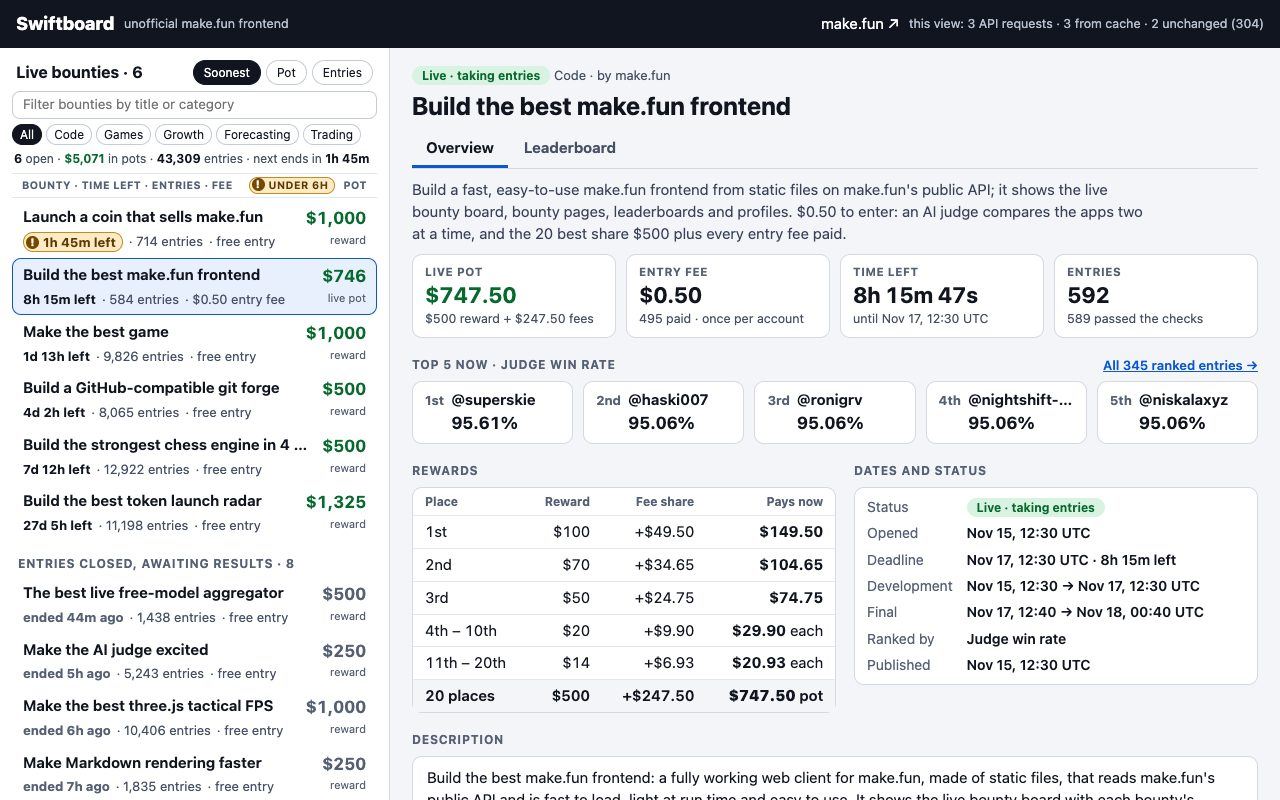
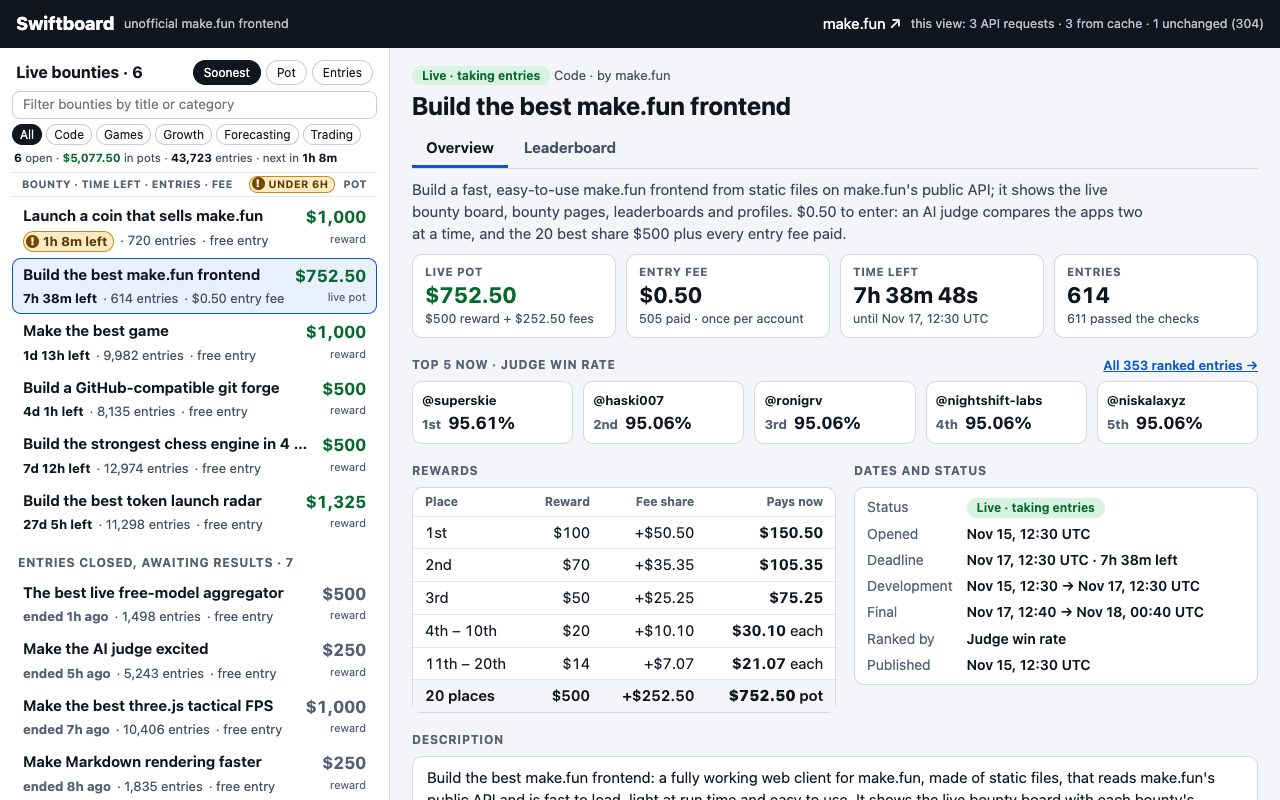
One set of numbers for a bounty's row and page, full handles in the Top 5, one request per revalidation
- A bounty's board row and its page show the same entries and pot: the later of the board list's reading and
  the bounty's own answer is carried into the other, the row and the summary line are patched in place, and an
  older board answer no longer overwrites it. No new request.
- Top 5 cards give the handle the card's full width; long handles are set slightly smaller, truly long ones
  are cut with an ellipsis and keep the full handle in the title.
- The once-a-minute revalidation is started once even when it takes longer than a second, so the header's
  request count matches the requests made.
- The board's summary line fits when the pot total carries cents.
- Screenshots retaken on live data.

diff --git a/app/views.js b/app/views.js
@@ -179,6 +179,8 @@ export function boardView(slug) {
 }
 
 function paintBoard(list) {
+  // A bounty's row and its page show one reading of its numbers: the later of the board's and the bounty's own.
+  list.forEach(keepLaterNumbers);
   listed = list;
   const root = $('board');
   if (!root._list) {
@@ -295,7 +297,7 @@ export function bountyView(slug = order[0] && order[0].slug) {
   }
   if (selected !== slug) boardView(slug);
   // Two answers make the page: the bounty's own, and its leaderboard for the Top 5 (the leaderboard tab's request).
-  return Promise.all([getBounty(slug, (b) => root._slug === slug && paintBounty(b)), topFive(slug)]);
+  return Promise.all([getBounty(slug, (b) => root._slug === slug && paintBounty(withLaterNumbers(b))), topFive(slug)]);
 }
 
 function paintBounty(b) {
@@ -391,16 +393,16 @@ details{margin:14px 0 30px}summary{padding:8px 2px;font-weight:650;cursor:pointe
 .top{position:sticky;top:-12px;z-index:1;margin-top:-12px;padding-top:12px;background:#fff}.row{scroll-margin-top:150px}
 #board input{display:block;width:100%;font:inherit;font-size:13.5px;padding:3px 10px;border:1px solid #c5ccd8;border-radius:8px;background:#fff;color:#10151f}
 .cats{display:flex;flex-wrap:wrap;gap:4px;margin:5px 0 0}.cats button{padding:1px 7px}
-.tally{margin:5px 2px 0;font-size:12px;color:#465064;white-space:nowrap;overflow:hidden;text-overflow:ellipsis}.tally b{color:#10151f}.tally b:nth-of-type(2){color:#08692f}
+.tally{margin:5px 2px 0;font-size:11.5px;color:#465064;white-space:nowrap;overflow:hidden;text-overflow:ellipsis}.tally b{color:#10151f}.tally b:nth-of-type(2){color:#08692f}
 .heads{display:flex;align-items:center;gap:8px;margin:5px 0 2px;padding:3px 10px;border-block:1px solid #e4e8ee;font-size:10.5px;font-weight:700;letter-spacing:.04em;text-transform:uppercase;color:#566074;white-space:nowrap}.heads span:first-child{flex:1}
 .soon{padding:0 6px 0 2px;border:1px solid #c98a1b;border-radius:99px;background:#fdebc5;color:#5f3900}.meta b.soon{color:#5f3900}
 .soon:before{content:"!";display:inline-block;width:13px;margin-right:4px;border-radius:50%;background:#774800;color:#fff;font-size:10.5px;font-weight:800;line-height:13px;text-align:center;vertical-align:1px}
 .none{margin:14px 6px;color:#465064}
 .toph a{float:right;font-size:13px;font-weight:600;letter-spacing:0;text-transform:none}
 .top5{display:grid;grid-template-columns:repeat(5,minmax(0,1fr));gap:10px;margin:0;padding:0;list-style:none}.top5+p{min-height:63px;margin:0;color:#465064}
-.top5 li{display:grid;grid-template-columns:auto minmax(0,1fr);gap:0 7px;align-items:baseline;padding:7px 12px;background:#fff;border:1px solid #d5dae2;border-radius:10px}
-.top5 i{font-style:normal;font-size:13px;font-weight:700;color:#566074}.top5 a{font-weight:650;color:#10151f;text-decoration:none;white-space:nowrap;overflow:hidden;text-overflow:ellipsis}.top5 a:hover{text-decoration:underline}.top5 b{grid-column:2;font-size:17px}
-@media(max-width:820px){body{grid-template-rows:auto minmax(0,1fr)}header{flex-wrap:wrap;row-gap:0;padding-block:6px}#net{flex-basis:100%;overflow:hidden;text-overflow:ellipsis;font-size:10.5px}.top5{grid-template-columns:minmax(0,1fr);gap:4px}.top5 li{grid-template-columns:30px minmax(0,1fr) auto;padding:5px 12px}.top5 b{grid-column:auto}.toph a{font-size:12px}.back{display:inline-block}.stats{grid-template-columns:1fr 1fr}.cols{grid-template-columns:minmax(0,1fr)}h1{font-size:21px}.stat b{font-size:20px}th,td{padding:5px 8px}}`,
+.top5 li{display:grid;grid-template-columns:auto minmax(0,1fr);gap:0 7px;align-items:baseline;padding:7px 8px 7px 9px;background:#fff;border:1px solid #d5dae2;border-radius:10px}
+.top5 i{grid-area:2/1;font-style:normal;font-size:13px;font-weight:700;color:#566074}.top5 a{grid-area:1/1/2/3;font-size:13px;line-height:22px;font-weight:650;color:#10151f;text-decoration:none;white-space:nowrap;overflow:hidden;text-overflow:ellipsis}.top5 a:hover{text-decoration:underline}.top5 .long{font-size:11.5px;letter-spacing:-.25px}.top5 b{grid-area:2/2;font-size:17px}
+@media(max-width:820px){body{grid-template-rows:auto minmax(0,1fr)}header{flex-wrap:wrap;row-gap:0;padding-block:6px}#net{flex-basis:100%;overflow:hidden;text-overflow:ellipsis;font-size:10.5px}.top5{grid-template-columns:minmax(0,1fr);gap:4px}.top5 li{grid-template-columns:30px minmax(0,1fr) auto;padding:5px 12px}.top5 i,.top5 a,.top5 b{grid-area:auto}.top5 a,.top5 .long{font-size:15px;letter-spacing:0}.toph a{font-size:12px}.back{display:inline-block}.stats{grid-template-columns:1fr 1fr}.cols{grid-template-columns:minmax(0,1fr)}h1{font-size:21px}.stat b{font-size:20px}th,td{padding:5px 8px}}`,
   }),
 );
 
@@ -415,7 +417,7 @@ const BOARD =
   '<div class=top><div class=bar><b></b><button data-sort=soon>Soonest</button><button data-sort=pot>Pot</button><button data-sort=entries>Entries</button></div>' +
   '<input type=search placeholder="Filter bounties by title or category" aria-label="Filter bounties by title or category">' +
   '<div class=cats role=group aria-label="Filter by category"></div>' +
-  '<p class=tally><b></b> open · <b></b> in pots · <b></b> entries · <span title="The nearest deadline among the bounties shown">next ends in <b data-next></b></span></p>' +
+  '<p class=tally><b></b> open · <b></b> in pots · <b></b> entries · <span title="The nearest deadline among the bounties shown">next in <b data-next></b></span></p>' +
   '<div class=heads><span>Bounty · time left · entries · fee</span><span class=soon>under 6h</span><span>Pot</span></div></div>' +
   '<div></div>' +
   '<p class=none hidden>No bounty matches this filter. <button data-clear>Show all</button></p>';
@@ -474,9 +476,53 @@ function paintTopFive(slug, board) {
   const ranked = board ? board.rows.filter((r) => r[0] != null) : [];
   const cells = ranked.slice(0, 5).map(
     ([rank, handle, , score, , , house]) =>
-      `<li><i>${ordinal(rank)}</i><a href="#/u/${encodeURIComponent(handle)}" title="@${esc(handle)}">@${esc(handle)}${house ? ' · house' : ''}</a><b class=num>${esc(score)}</b></li>`,
+      // The handle has the card's full width; one longer than 16 characters is set a little smaller so that it
+      // still reads in full, and only a truly long one is cut with an ellipsis (the title always has all of it).
+      `<li><i>${ordinal(rank)}</i><a href="#/u/${encodeURIComponent(handle)}" title="@${esc(handle)}"${String(handle).length + (house ? 8 : 0) > 16 ? ' class=long' : ''}>@${esc(handle)}${house ? ' · house' : ''}</a><b class=num>${esc(score)}</b></li>`,
   );
   const all = ranked.length ? `All ${plural(ranked.length, 'ranked entry', 'ranked entries')}` : 'Full leaderboard';
   patchHtml(f.topHead, `Top 5 now${ranked.length ? ' · ' + esc(board.column) : ''} <a href="${at}">${all} →</a>`);
   patchHtml(f.top, cells.length ? `<ol class=top5>${cells.join('')}</ol>` : `<ol class=top5></ol><p>${board ? 'No ranked entries yet.' : 'Reading the leaderboard…'}</p>`);
+}
+
+// ---------------------------------------------------------------- one reading of a bounty's numbers
+
+/**
+ * The board's list and a bounty's own answer are two endpoints of different freshness, and both state these same
+ * fields (submissionCount, potUsd, rewardAmount, entryFeesUsd, entryFeePayers, rewardsNow). They move as one group,
+ * so the pot always equals its reward plus its fees and the rewards table always adds up to the pot.
+ */
+const SHARED_NUMBERS = ['entries', 'pot', 'reward', 'fees', 'payers', 'rewards'];
+const sharedNumbers = (b) => Object.fromEntries(SHARED_NUMBERS.map((key) => [key, b[key]]));
+
+/** The numbers last read from each bounty's own answer, by slug. Real answers only: nothing is computed. */
+const ownNumbers = new Map();
+
+/** A bounty's entries and its fee total only grow, so the reading with more of them is the later of the two. */
+const isLater = (a, b) => (a.entries - b.entries || a.fees - b.fees) > 0;
+
+/**
+ * The bounty's own answer, about to be painted on its page. While it is the later reading, its numbers are written
+ * into the listing the board row is painted from and the row and summary line are patched in place (no request, no
+ * new row). If the board's list is the later one, the page takes the list's numbers instead.
+ */
+function withLaterNumbers(b) {
+  const row = listing(b.slug);
+  if (row && isLater(row, b)) return { ...b, ...sharedNumbers(row) };
+  ownNumbers.set(b.slug, sharedNumbers(b));
+  if (row && SHARED_NUMBERS.some((key) => String(row[key]) !== String(b[key]))) paintBoard(listed);
+  return b;
+}
+
+/**
+ * A listing about to be painted on the board. An older board answer does not overwrite the bounty's own numbers;
+ * a later one replaces them, on the bounty's page too when that page is on screen.
+ */
+function keepLaterNumbers(row) {
+  const own = ownNumbers.get(row.slug);
+  if (!own) return;
+  if (!isLater(row, own)) return Object.assign(row, own);
+  ownNumbers.delete(row.slug);
+  const page = $('bounty');
+  if (!page.hidden && page._bounty && page._bounty !== row && page._bounty.slug === row.slug) paintBounty({ ...page._bounty, ...sharedNumbers(row) });
 }

diff --git a/app/app.js b/app/app.js
@@ -59,7 +59,10 @@ async function route() {
 /** Countdowns tick every second without a request; the data is revalidated once a minute while the tab shows. */
 function tickCountdowns() {
   patchCountdowns();
-  if (++ticks >= 60 && !document.hidden) route();
+  if (++ticks < 60 || document.hidden) return;
+  // Counted from the start of the revalidation, so one slower than a second is not started (and aborted) again.
+  ticks = 0;
+  route();
 }
 
 let turn = 0, ticks = 0;
